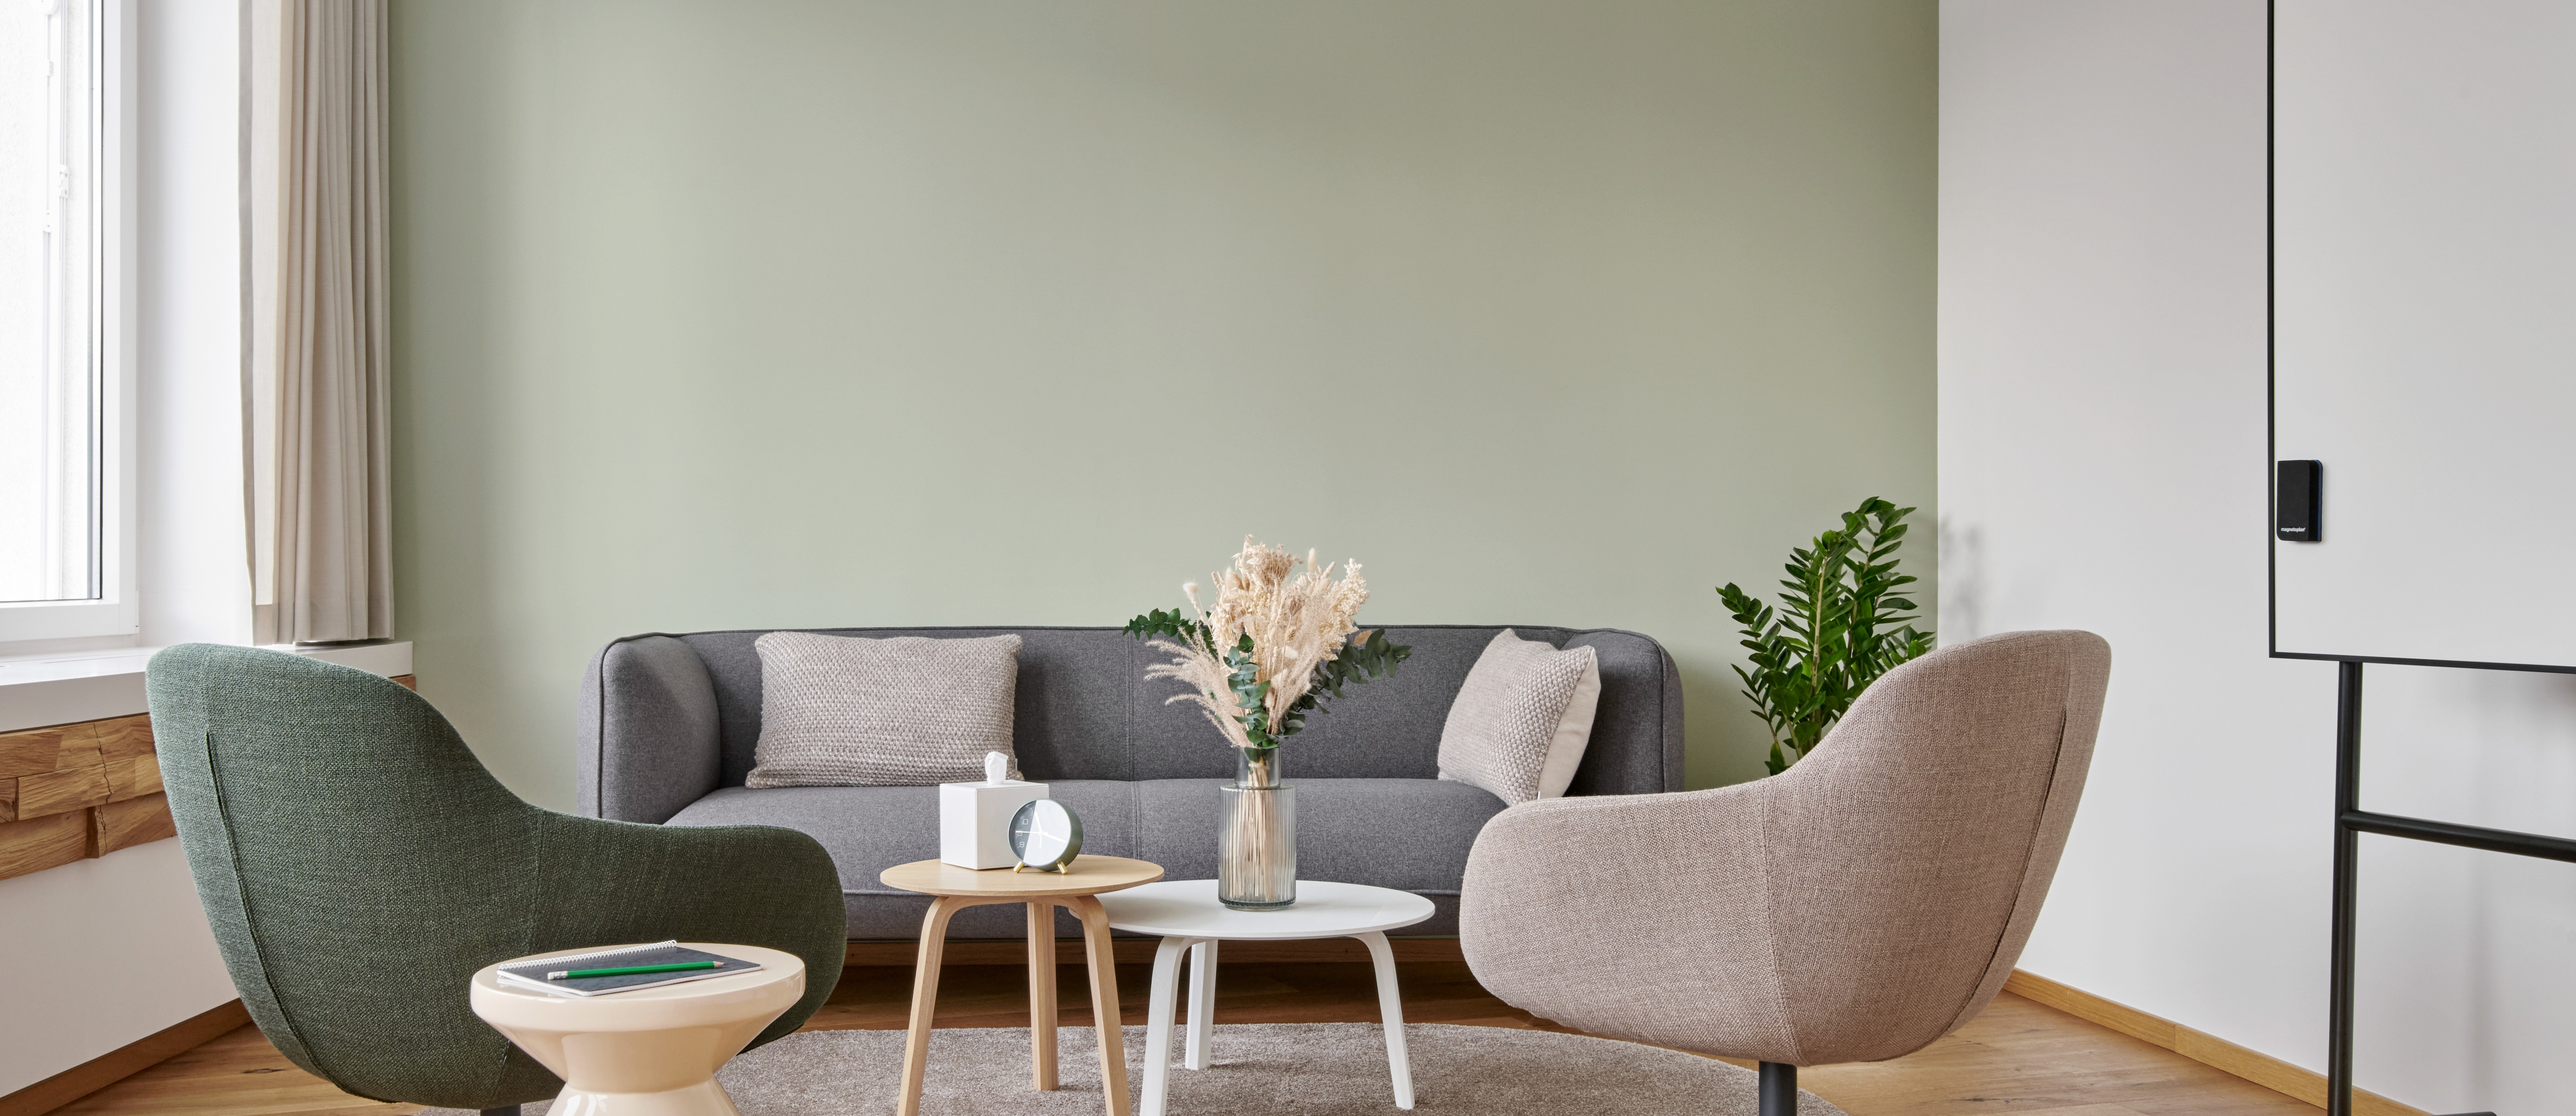
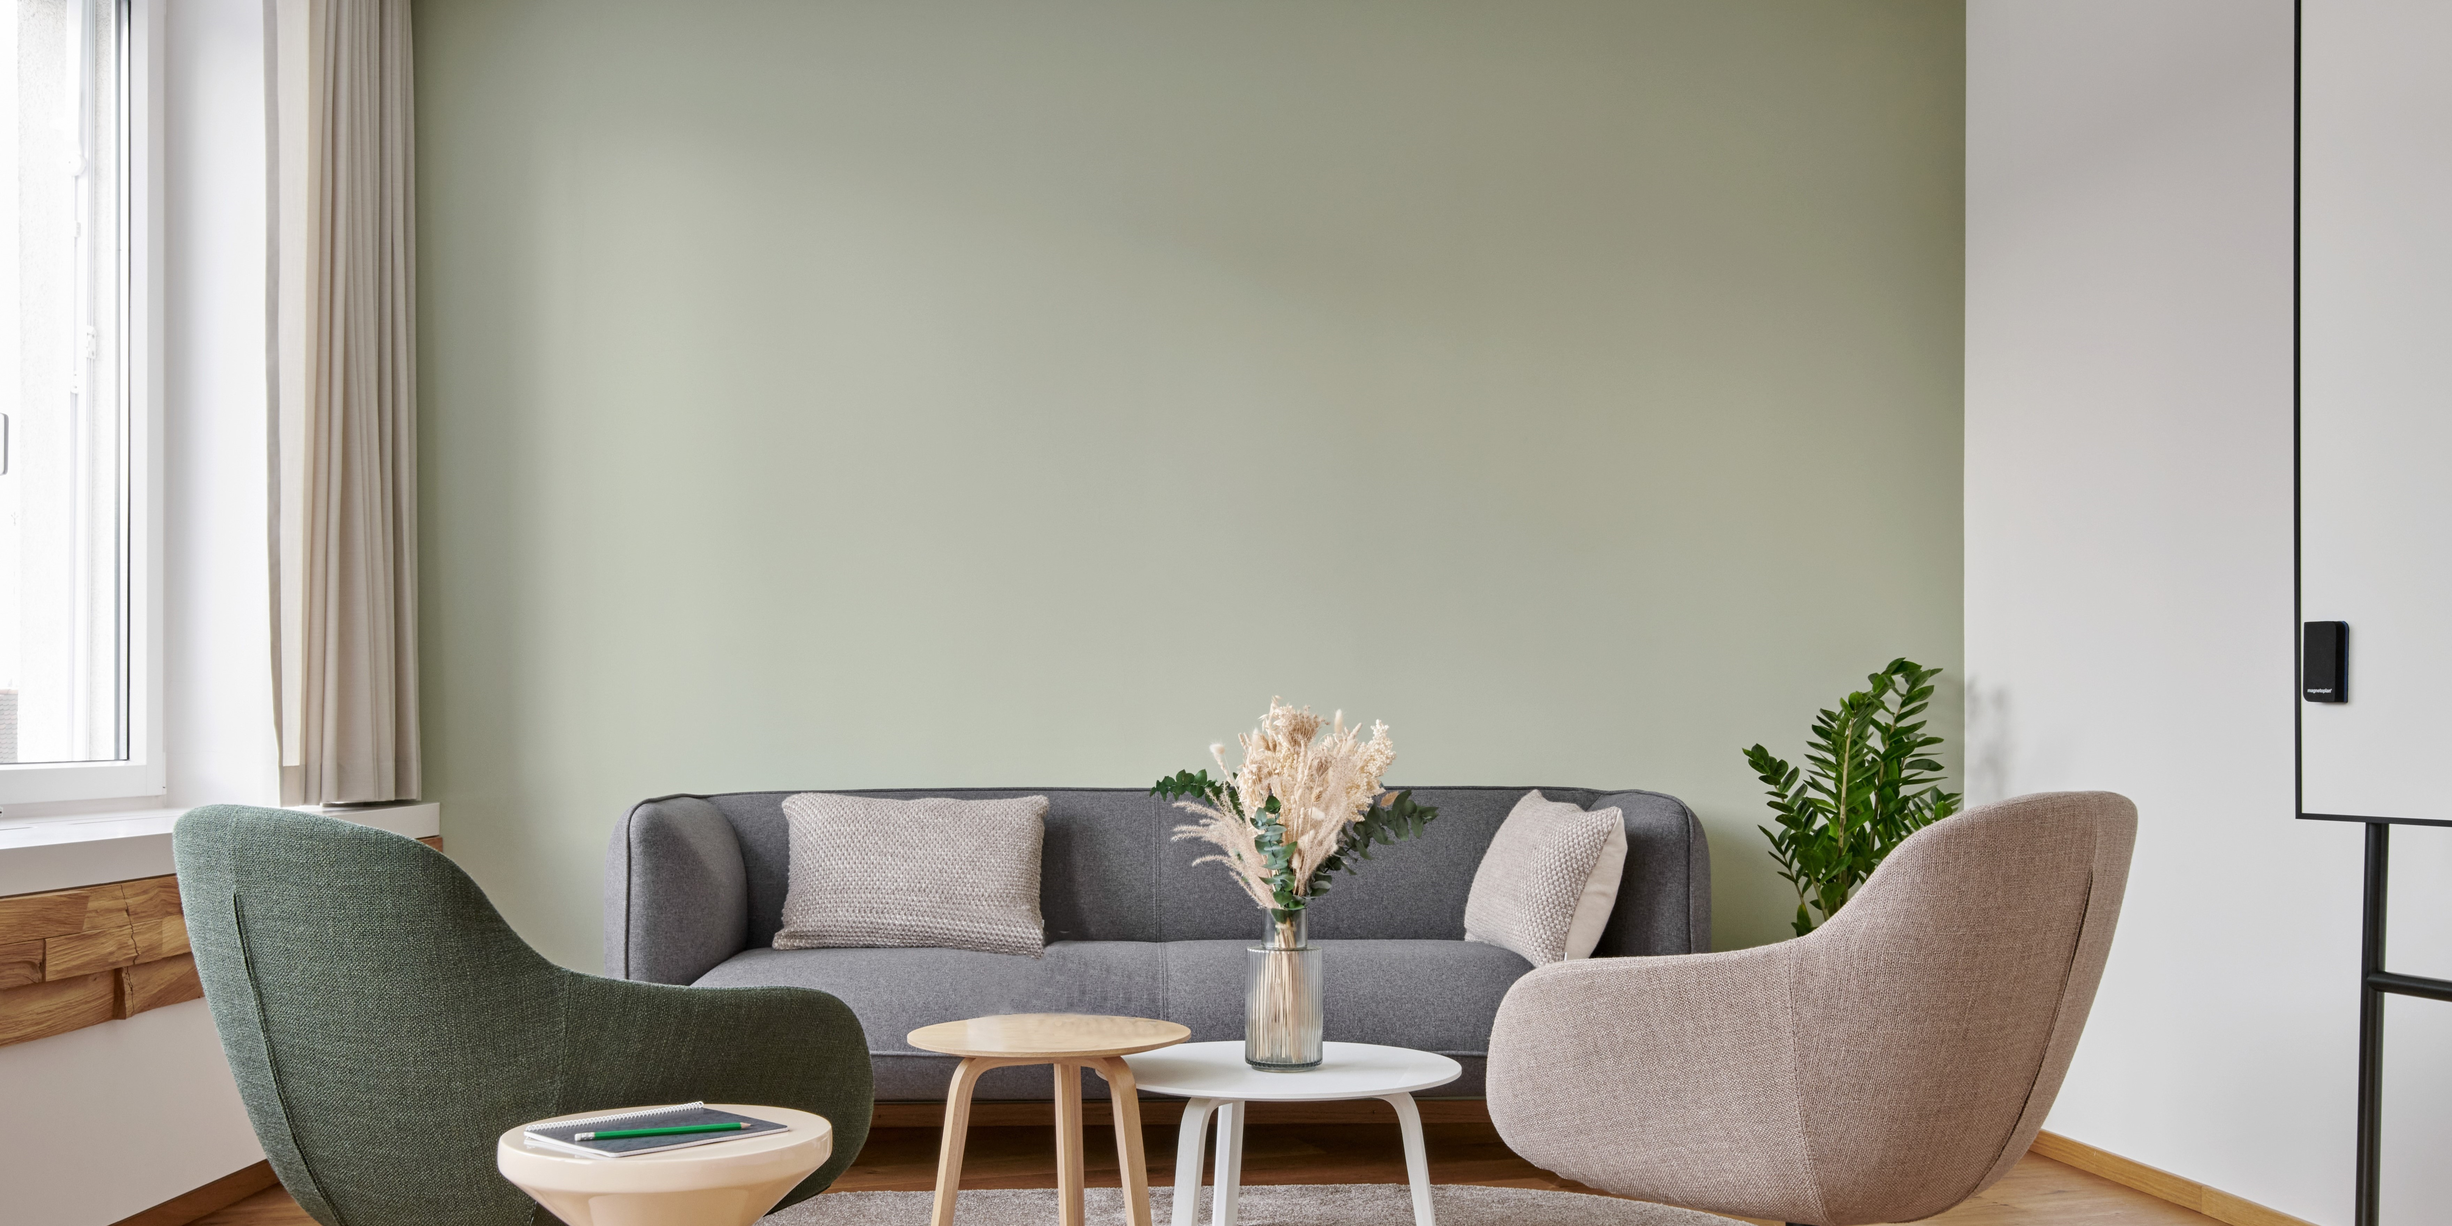
Neue Headerbilder Home & Angebot

diff --git a/angebot.html b/angebot.html
@@ -54,15 +54,14 @@
 
 <!-- Header Angebot -->
 <div class="container-header">
-    <img class="" src="/img/Wepractice Header Angebot ohne Screen.jpg" alt="Warteraum Wepractice" width="100%"/> 
-    <h1 class="text-dark">Beratung & Coaching</h1>
+    <img class="angebot-headerbild" src="/img/markus-spiske-6MB_jBwteIg-unsplash.jpg" alt="" width="100%"/> 
+    <h1 class="text-dark">Coaching-Angebot</h1>
     <h2 class="text-dark">leichter leben lernen</h2>
 </div>
 
 <!-- Beschreibung Angebot -->
 
 <div class="text-dark">
-    <img class="angebots-illustration" src="/img/Angebot-Illustration.png" alt="Angebot" width="370"/>
     <p class="p-under-header">Beschreibung Angebot Beschreibung Angebot Beschreibung Angebot Beschreibung Angebot Beschreibung
     </p>
 </div>
@@ -85,6 +84,8 @@
     meistern lassen und ist für mich eine grosse Hilfestellung im Umgang mit herausfordernden Momenten.
     Professionell, empathisch und zielgerichtet. "Chapeau!" und herzlichen Dank!"</p>
 </div>
+
+<img class="angebots-illustration" src="/img/Angebot-Illustration.png" alt="Angebot" width="370"/>
 
 <!--  Footer -->
 

diff --git a/index.html b/index.html
@@ -54,7 +54,7 @@
 
 <!-- Header Index -->
 <div class="container-header">
-  <img class="" src="/img/Wepractice Home ohne Taschentücher.jpg" alt="Coachingraum Wepractice" width="100%"/> 
+  <img class="" src="/img/Wepractice Home bearbeitet Tisch 2 auch weg.jpg" alt="Coachingraum Wepractice" width="100%"/> 
   <h1>Beratung & Coaching</h1>
   <h2>Raum für Lösungen</h2>
 </div>

diff --git a/src/style.css b/src/style.css
@@ -83,6 +83,10 @@ p.p-under-header {
   margin: 0 auto;
 }
 
+.angebot-headerbild {
+  opacity: 60%;
+}
+
 .container-header {
   position: relative;
 }
